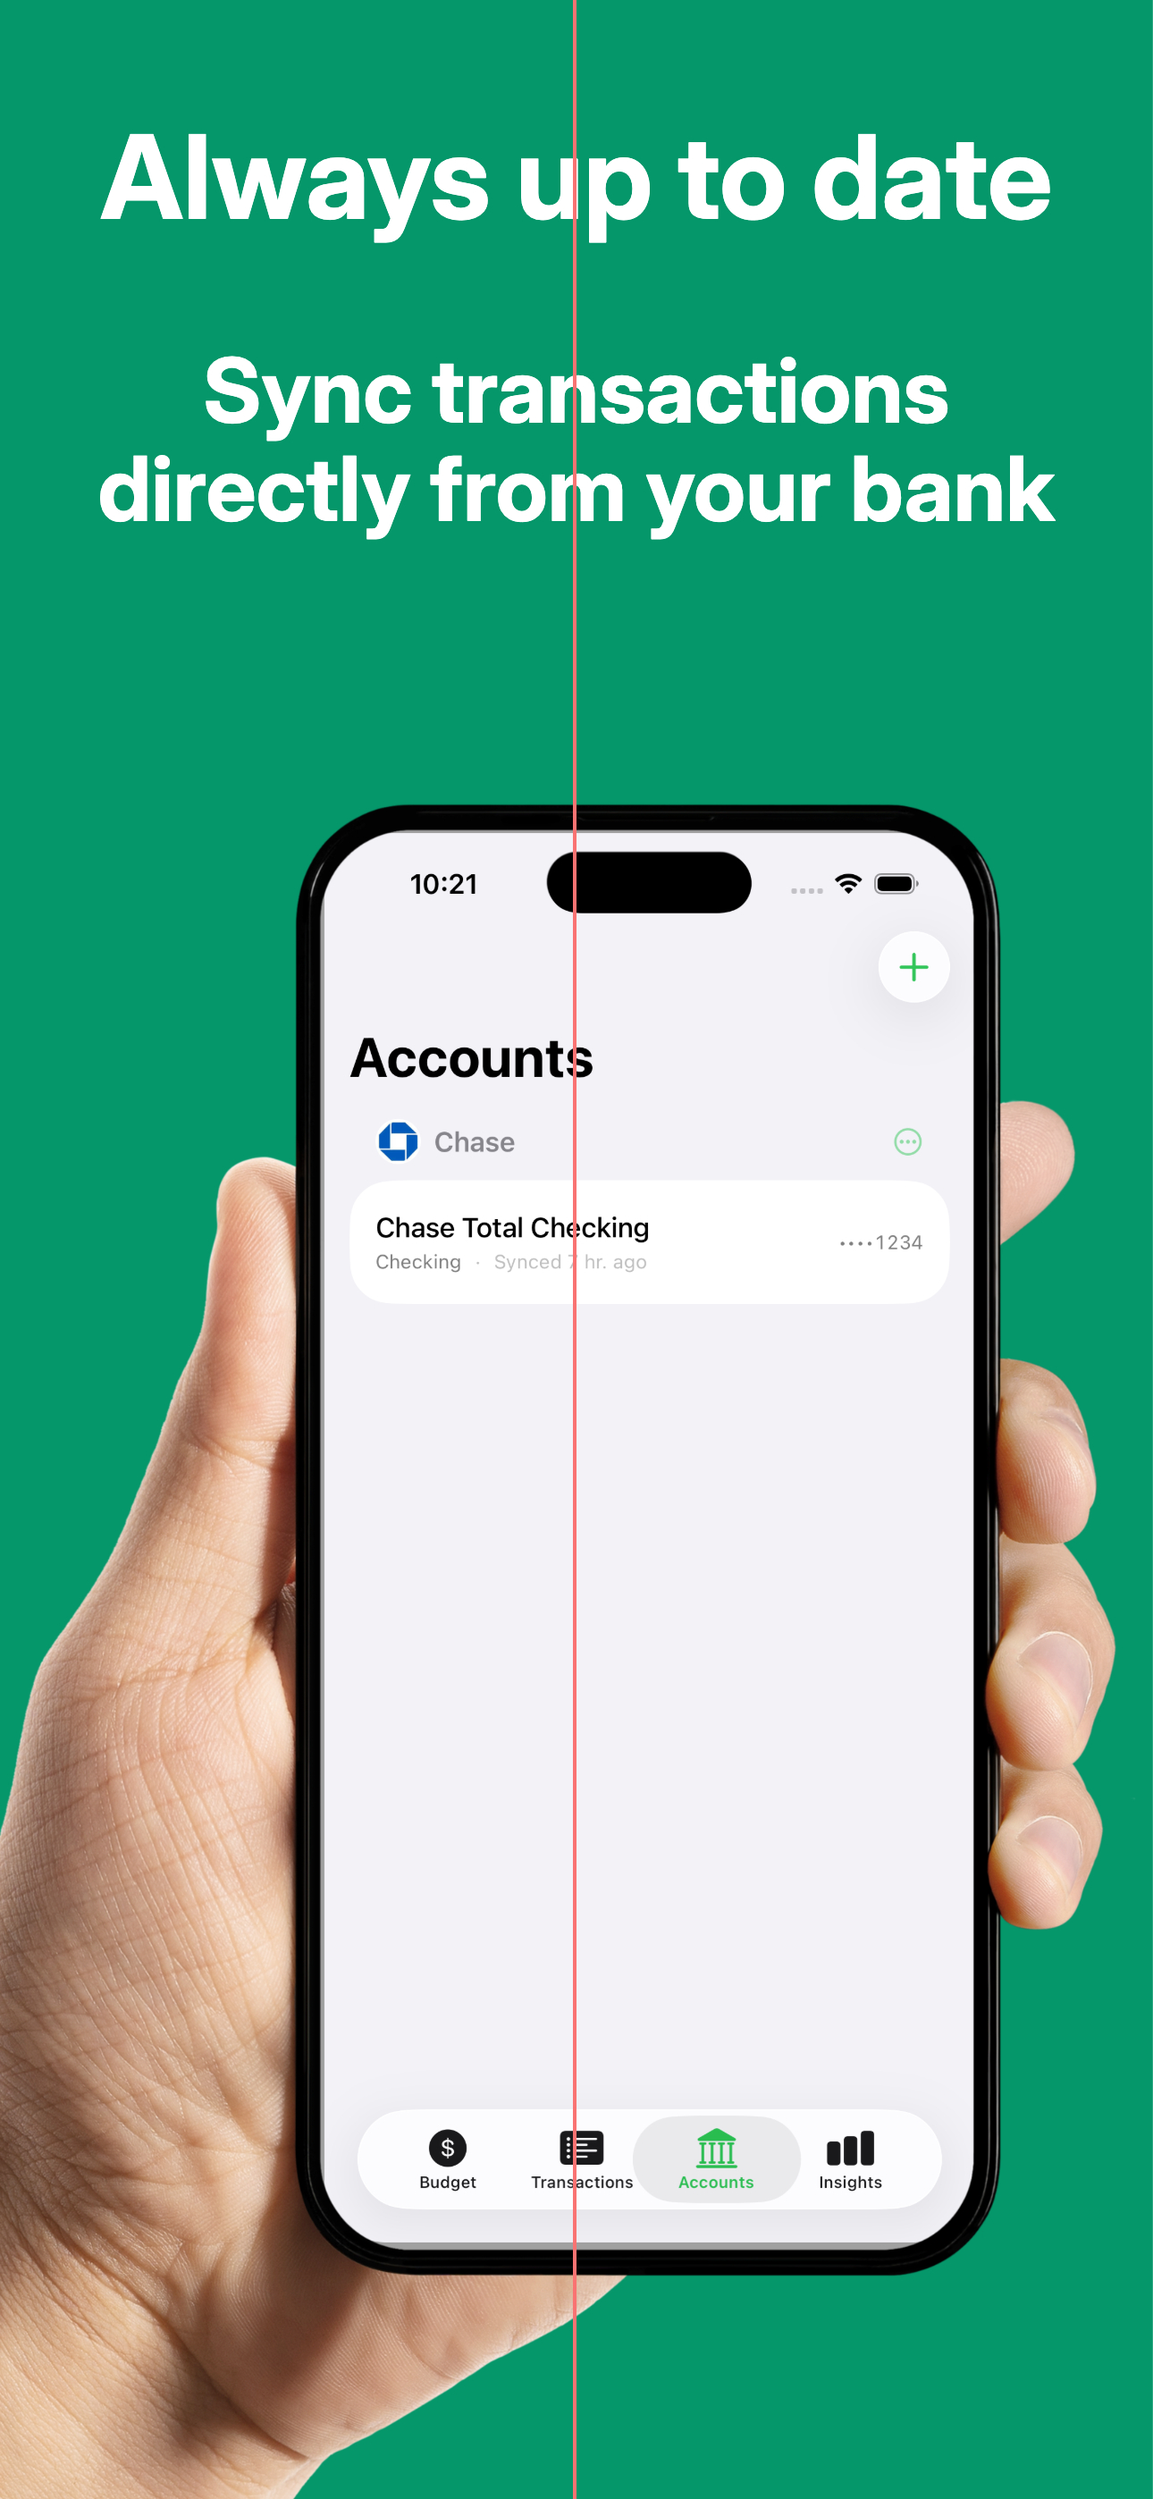
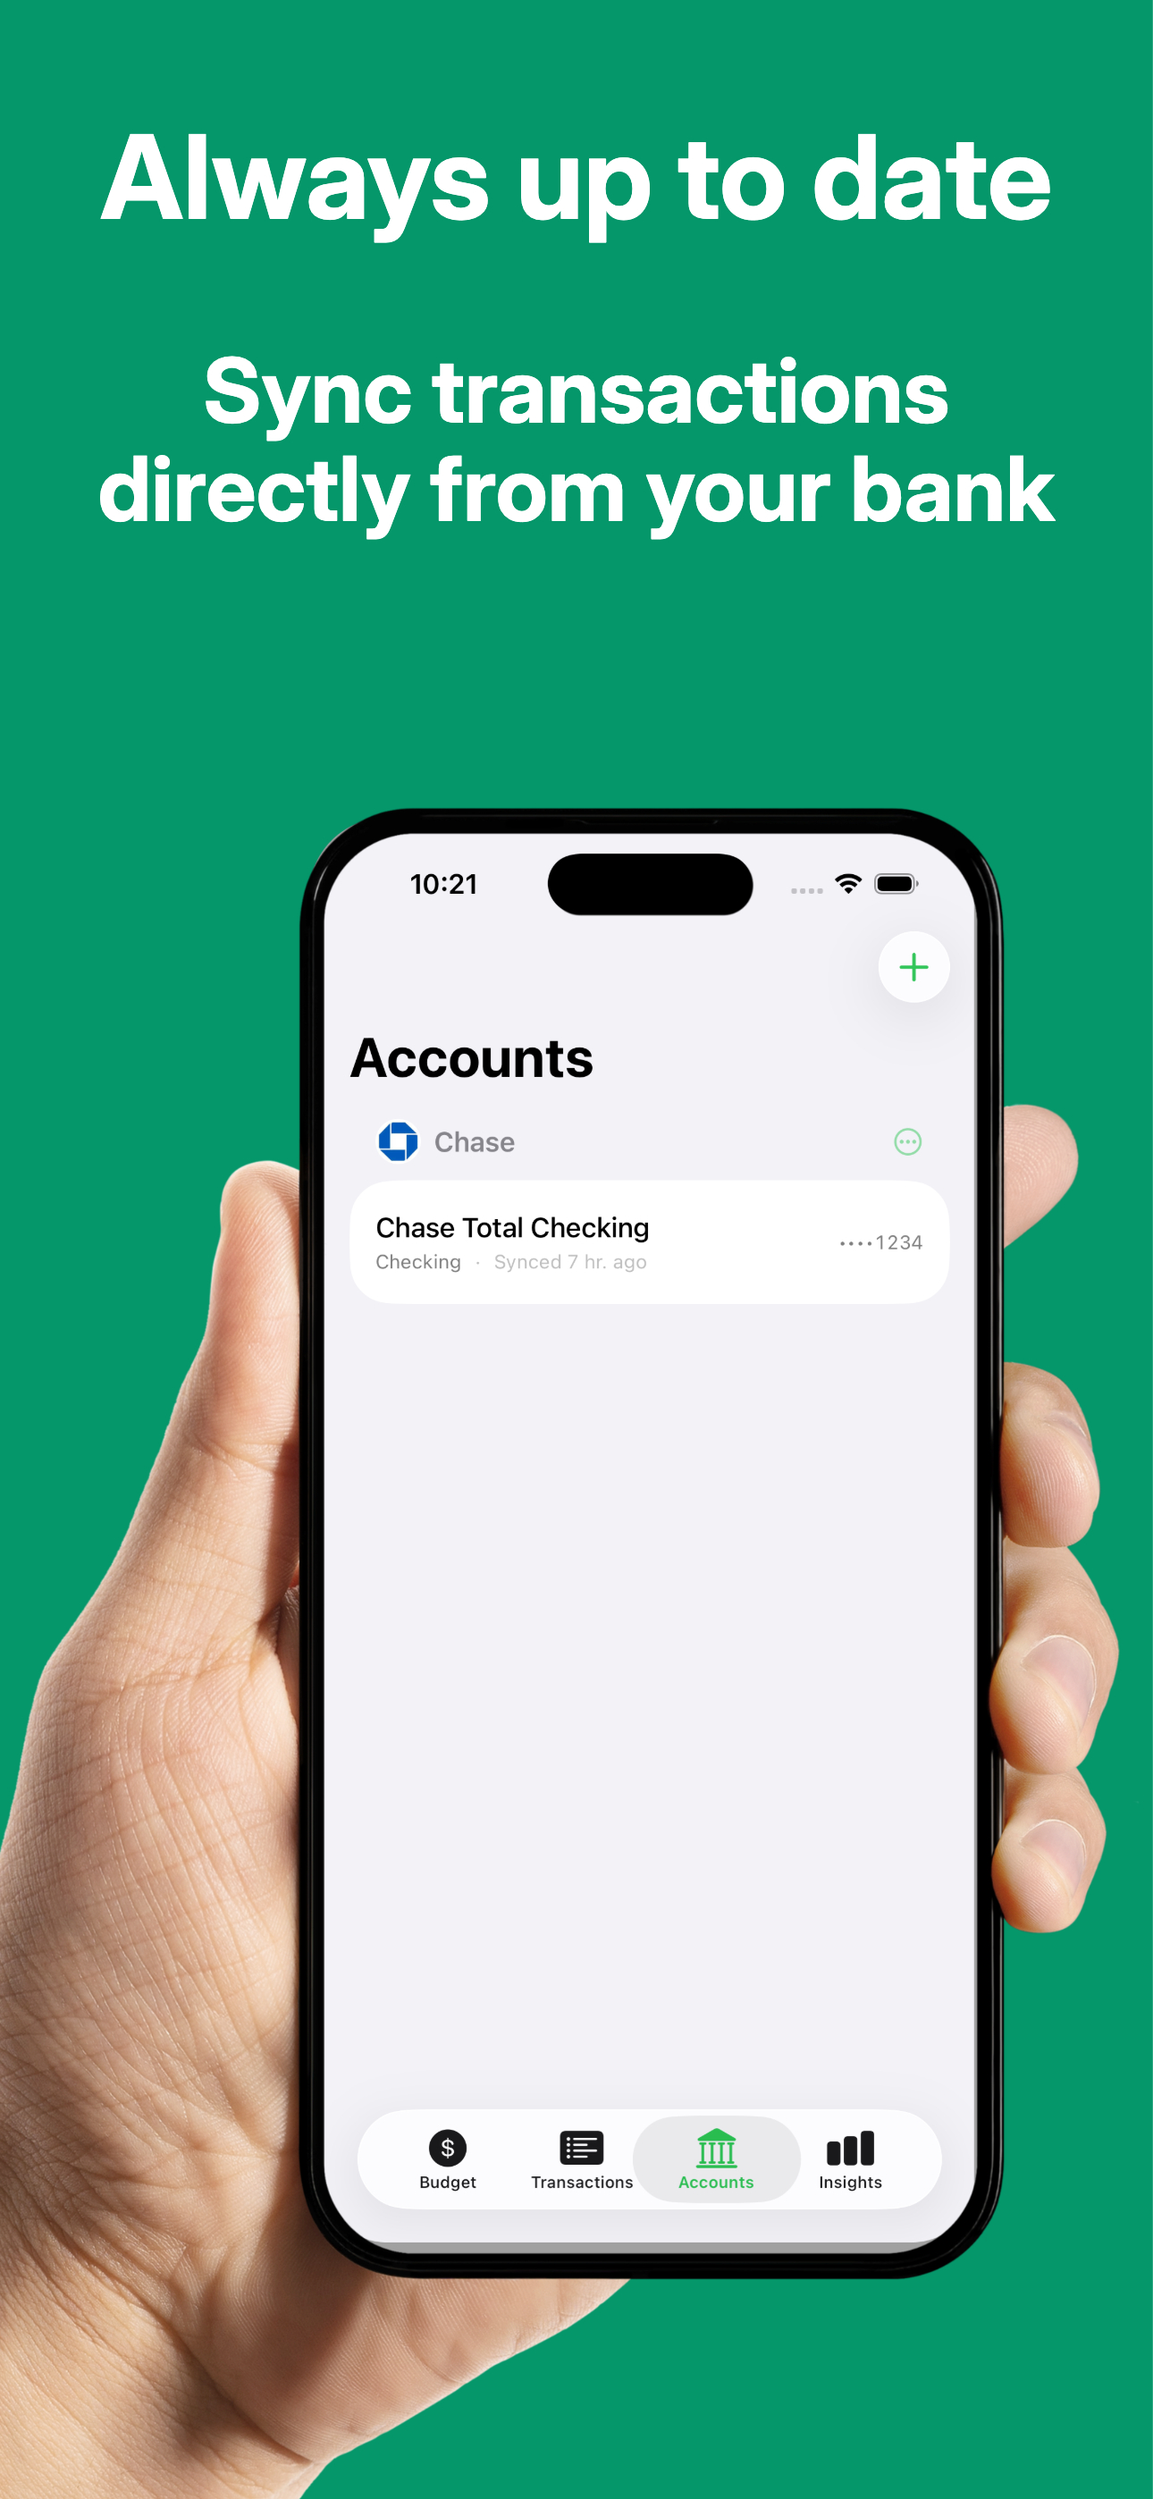
chore(ios): add App Store assets and privacy policy for Happy Tusk
- Add APP_STORE_LISTING.md with full App Store listing copy (name,
  subtitle, description, keywords, URLs)
- Add /privacy page (Next.js) with full privacy policy content
- Add /privacy as a public route in middleware (no auth required)
- Set bundle ID to com.happytusk.app and product name to "Happy Tusk"
  in Xcode project
- Re-export image6.jpg (removes red line artifact)

diff --git a/app/privacy/page.tsx b/app/privacy/page.tsx
@@ -1,0 +1,176 @@
+export const metadata = {
+  title: "Privacy Policy — Happy Tusk",
+  description: "Privacy policy for the Happy Tusk budgeting app.",
+};
+
+export default function PrivacyPage() {
+  const lastUpdated = "February 18, 2026";
+
+  return (
+    <div className="min-h-screen bg-white px-6 py-12 max-w-2xl mx-auto">
+      <h1 className="text-3xl font-bold text-gray-900 mb-2">Privacy Policy</h1>
+      <p className="text-sm text-gray-500 mb-10">Last updated: {lastUpdated}</p>
+
+      <section className="mb-8">
+        <p className="text-gray-700 leading-relaxed">
+          Happy Tusk (&quot;we&quot;, &quot;our&quot;, or &quot;us&quot;) is a
+          zero-based budgeting app. This policy explains what information we
+          collect, how we use it, and your rights regarding your data.
+        </p>
+      </section>
+
+      <Section title="Information We Collect">
+        <p>We collect the following categories of information:</p>
+        <ul className="list-disc pl-5 mt-2 space-y-1">
+          <li>
+            <strong>Account information</strong> — your email address and name,
+            provided when you create an account via Clerk.
+          </li>
+          <li>
+            <strong>Budget data</strong> — budgets, categories, budget items,
+            and planned amounts you create in the app.
+          </li>
+          <li>
+            <strong>Transaction data</strong> — transactions you manually add or
+            import from linked bank accounts.
+          </li>
+          <li>
+            <strong>Recurring payment data</strong> — subscriptions and bills
+            you track in the app.
+          </li>
+          <li>
+            <strong>Bank connection data</strong> — if you link a bank account,
+            we store an access token (provided by Teller) that allows us to
+            retrieve your transaction history. We never store your bank
+            credentials.
+          </li>
+        </ul>
+      </Section>
+
+      <Section title="How We Use Your Information">
+        <ul className="list-disc pl-5 space-y-1">
+          <li>To provide and operate the Happy Tusk app and its features.</li>
+          <li>
+            To sync transactions from your linked bank accounts on your request.
+          </li>
+          <li>
+            To associate your budget data with your account so it persists
+            across devices.
+          </li>
+          <li>We do not sell your personal information to third parties.</li>
+          <li>
+            We do not use your financial data for advertising or marketing
+            purposes.
+          </li>
+        </ul>
+      </Section>
+
+      <Section title="Third-Party Services">
+        <p>Happy Tusk relies on the following third-party services:</p>
+        <ul className="list-disc pl-5 mt-2 space-y-2">
+          <li>
+            <strong>Clerk</strong> (clerk.com) — handles user authentication and
+            account management. Clerk stores your email and name. See{" "}
+            <a
+              href="https://clerk.com/privacy"
+              className="text-green-700 underline"
+              target="_blank"
+              rel="noopener noreferrer"
+            >
+              Clerk&apos;s Privacy Policy
+            </a>
+            .
+          </li>
+          <li>
+            <strong>Teller</strong> (teller.io) — provides secure bank account
+            connectivity. Your bank credentials are entered directly into
+            Teller&apos;s interface and are never shared with us. See{" "}
+            <a
+              href="https://teller.io/privacy"
+              className="text-green-700 underline"
+              target="_blank"
+              rel="noopener noreferrer"
+            >
+              Teller&apos;s Privacy Policy
+            </a>
+            .
+          </li>
+          <li>
+            <strong>Supabase</strong> (supabase.com) — our database provider,
+            used to store your budget and transaction data securely. Data is
+            stored in the United States.
+          </li>
+        </ul>
+      </Section>
+
+      <Section title="Data Retention">
+        <p>
+          Your data is retained for as long as your account is active. You may
+          delete your account at any time by contacting us, which will result in
+          permanent deletion of all associated budget data.
+        </p>
+      </Section>
+
+      <Section title="Data Security">
+        <p>
+          All data is transmitted over HTTPS. We use Clerk&apos;s
+          industry-standard authentication to ensure only you can access your
+          account. Bank credentials are never stored — only a secure access
+          token is retained for transaction syncing.
+        </p>
+      </Section>
+
+      <Section title="Your Rights">
+        <p>You have the right to:</p>
+        <ul className="list-disc pl-5 mt-2 space-y-1">
+          <li>Access the data we hold about you.</li>
+          <li>Request deletion of your account and all associated data.</li>
+          <li>Disconnect your bank accounts at any time within the app.</li>
+        </ul>
+      </Section>
+
+      <Section title="Children's Privacy">
+        <p>
+          Happy Tusk is not directed at children under the age of 13. We do not
+          knowingly collect personal information from children under 13.
+        </p>
+      </Section>
+
+      <Section title="Changes to This Policy">
+        <p>
+          We may update this Privacy Policy from time to time. We will notify
+          users of significant changes by updating the date at the top of this
+          page.
+        </p>
+      </Section>
+
+      <Section title="Contact Us">
+        <p>
+          If you have questions about this Privacy Policy or your data, contact
+          us at:{" "}
+          <a
+            href="mailto:support@happytusk.app"
+            className="text-green-700 underline"
+          >
+            support@happytusk.app
+          </a>
+        </p>
+      </Section>
+    </div>
+  );
+}
+
+function Section({
+  title,
+  children,
+}: {
+  title: string;
+  children: React.ReactNode;
+}) {
+  return (
+    <section className="mb-8">
+      <h2 className="text-lg font-semibold text-gray-900 mb-3">{title}</h2>
+      <div className="text-gray-700 leading-relaxed space-y-2">{children}</div>
+    </section>
+  );
+}

diff --git a/middleware.ts b/middleware.ts
@@ -4,6 +4,7 @@ import { clerkMiddleware, createRouteMatcher } from '@clerk/nextjs/server';
 const isPublicRoute = createRouteMatcher([
   '/sign-in(.*)',
   '/sign-up(.*)',
+  '/privacy',
 ]);
 
 export default clerkMiddleware(async (auth, request) => {

diff --git a/CLAUDE.md b/CLAUDE.md
@@ -4,8 +4,8 @@
 
 Zero-based budget app: Next.js + TypeScript web app with native iOS (SwiftUI) companion. Bank integration via Teller API.
 
-**Web App:** v1.9.0 (stable)  |  **iOS App:** v0.12.0 (pre-release)
-**Last Session:** 2026-02-17
+**Web App:** v1.9.0 (stable)  |  **iOS App:** v0.12.0 (pre-release) — **iOS app name: Happy Tusk**
+**Last Session:** 2026-02-18
 
 ## Instructions for Claude
 
@@ -117,28 +117,15 @@ All `NumberFormatter`/`DateFormatter`/`ISO8601DateFormatter` instances are cache
 
 ## UI Patterns
 
-### Colors (Web)
+**Web colors:** `globals.css` tokens — Income=`text-success`, Expense/Over=`text-danger`, Primary=`bg-primary`
+**Category emojis:** Income💰 Giving🤲 Household🏠 Transportation🚗 Food🍽 Personal👤 Insurance🛡 Saving💵 Custom=📁
+**iOS budget page:** Summary card (Buffer + `MiniProgressRing` for income/expenses). Bottom banner: gray/orange/green/red by allocation state. Progress bars as 2px Capsule dividers. Collapsible category headers.
 
-Semantic CSS tokens in `globals.css` — see `DESIGN_SYSTEM.md`. Income=`text-success`, Expense=`text-danger`, Over budget=`text-danger`, Primary=`bg-primary`.
+## Working Features
 
-### Category Emojis
+**Web (v1.9.0):** Feature-complete. Full budget CRUD, custom categories, transactions (add/edit/split/soft-delete), bank sync (Teller), recurring payments, budget copy/reset, insights (D3 charts + Sankey), monthly report, onboarding, tablet responsive.
 
-Income💰 Giving🤲 Household🏠 Transportation🚗 Food🍽 Personal👤 Insurance🛡 Saving💵 Custom=stored emoji or 📁
-
-### iOS Budget Page
-
-- Summary card shows Buffer (tap-to-edit) + Income/Expenses progress rings (`MiniProgressRing`)
-- Sticky bottom banner: "Start planning" (gray) / "Left to Budget" (orange) / "Every dollar is assigned!" (green) / "Over budgeted" (red)
-- Progress bars as dividers between items (2px, green/red Capsule)
-- Category headers collapsible with chevron
-
-## Working Features (Web)
-
-Auth (Clerk), multi-user, onboarding (6-step), full budget CRUD, custom categories (name+emoji), transactions (add/edit/soft-delete/restore), split transactions (create+edit), bank integration (Teller), recurring payments (auto-reset, auto-create, linking), budget item detail sidebar, monthly report with Buffer Flow + Left to Budget, copy/reset budget, insights charts (D3: bar, line, Sankey), tablet responsive + mobile block, transaction categorization suggestions, month/year URL persistence, previous month transactions
-
-## Working Features (iOS)
-
-Auth (Clerk), budget viewing with categories/items, month navigation, transaction viewing + categorization + editing, transaction creation (from item detail or transactions tab), budget item detail (progress ring, edit name/planned, view/add/edit transactions), bank account linking (Teller Connect via WKWebView), transaction sync from linked accounts, per-account sync toggle (half-sheet with streaming on/off), accounts viewing with institution grouping + unlink + institution icons, pull-to-refresh, sticky "Left to Budget" banner, budget summary progress rings (income/expenses), progress bar dividers, split transactions (create from item detail), recurring payment management (CRUD, contribute, mark as paid/reset, category picker), custom category creation (name+emoji picker, long-press delete), budget copy from previous month, budget reset (zero out / replace with previous month), monthly report sheet (7 sections with trends + non-earned income filter), insights charts (budget vs actual bars, spending pace burn-down with per-category drilldown, daily spending heatmap, spending trends), inline budget item editing (tap name or planned amount), onboarding flow (6-step purely educational — no live data created), comprehensive error handling (toast notifications for all mutations, network error wrapping, server error message parsing), transaction search & filters (text search on merchant/description/amount, type/category/amount range/account filters, filter chips with dismiss), offline support (cache-then-network loading, offline mutation guards, floating offline banner, cache clear on sign-out), non-earned income marking (per-transaction + per-split toggle for income type)
+**iOS (v0.12.0 — Happy Tusk):** Feature-complete. All web features plus: native offline caching, transaction search/filters, per-account sync toggle, non-earned income marking, interactive chart drill-downs, toast error handling. See `ios/BudgetApp/CHANGELOG.md`.
 
 ## Common Issues
 
@@ -177,8 +164,9 @@ See `.env.example`. Key vars: `DATABASE_URL`, `NEXT_PUBLIC_CLERK_PUBLISHABLE_KEY
 **Pending migration:** `isNonEarned` column rename — run SQL migration before `db:push`
 
 **Next iOS work:**
-- App Store Connect setup (bundle ID, app record, listing copy, privacy policy)
+- Renew Apple Developer membership ($99/yr) — required for TestFlight + App Store upload
+- App Store Connect: create app record with bundle ID `com.happytusk.app`
 - TestFlight beta testing
 - Accessibility improvements (VoiceOver, Dynamic Type)
 
-**App Store assets:** Screenshots done — `ios/screenshots/image1-6.jpg` (6 captioned JPGs, 6.7" device)
+**App Store assets:** Done — `ios/APP_STORE_LISTING.md` (listing copy, keywords, URLs). Screenshots: `ios/screenshots/image1-6.jpg`. Privacy policy: `/privacy` (public route, no auth). Icon: `ios/BudgetApp/BudgetApp/Assets.xcassets/AppIcon.appiconset/`

diff --git a/ios/APP_STORE_LISTING.md b/ios/APP_STORE_LISTING.md
@@ -1,0 +1,90 @@
+# Happy Tusk — App Store Listing
+
+## App Name
+
+Happy Tusk
+
+## Subtitle (30 chars max)
+
+Zero-Based Budget Tracker
+
+## Category
+
+Primary: Finance
+Secondary: Productivity
+
+## Age Rating
+
+4+
+
+## Pricing
+
+Free
+
+---
+
+## Description (4000 chars max)
+
+Meet Happy Tusk — the zero-based budgeting app that makes sure every dollar has a job.
+
+Most budgeting apps just track what you've spent. Happy Tusk makes you intentional about where every dollar goes _before_ you spend it. Assign your income across categories, watch your budget balance in real time, and end each month knowing exactly where your money went.
+
+**Zero-Based Budgeting, Simplified**
+Happy Tusk is built on a simple idea: income minus expenses equals zero. Every paycheck gets fully assigned — to bills, groceries, savings, or your buffer — so nothing slips through the cracks. When every dollar has a job, you're in control.
+
+**Plan Your Month**
+Build a budget from scratch or copy last month's with one tap. Organize spending across built-in categories (Income, Giving, Household, Transportation, Food, Personal, Insurance, Saving) or create your own with a custom name and emoji. Set planned amounts for each line item and watch your progress fill in as transactions come through.
+
+**Connect Your Bank**
+Link your bank accounts and sync transactions directly into Happy Tusk. Categorize transactions with a tap, split purchases across multiple budget items, and keep your budget current without manual data entry. Supports checking and credit card accounts.
+
+**See Where Your Money Goes**
+Happy Tusk's Insights tab gives you a full picture of your finances:
+
+- Budget vs. Actual bars for every category
+- Daily spending heatmap — see your heavy spending days at a glance
+- Spending pace burn-down chart
+- Multi-month spending trends by category
+- Detailed monthly report with income, expenses, savings rate, and buffer flow
+
+**Never Lose Track**
+The "Left to Budget" banner always shows you how much income is still unassigned. Green means every dollar is placed. Orange means you have money left to plan. Red means you've over-allocated — time to adjust.
+
+**Recurring Payments Built In**
+Track subscriptions and recurring bills separately. Happy Tusk auto-advances due dates, tracks how much you've funded toward each payment, and can automatically add them to your budget when copying a previous month.
+
+**Works Offline**
+Happy Tusk caches your budget data locally so you can always view your budget, even without a connection. Mutations are blocked when offline with a clear indicator — no silent failures.
+
+**Your Data, Secure**
+Happy Tusk uses Clerk for secure authentication and never stores your bank credentials — bank connections are handled by Teller, a trusted financial data provider.
+
+---
+
+## Keywords (100 chars max)
+
+budget,zero-based,budgeting,money,finance,spending,tracker,savings,bank sync,personal finance
+
+## Support URL
+
+https://happytusk.app/support
+
+## Privacy Policy URL
+
+https://happytusk.app/privacy
+
+---
+
+## What's New (first version)
+
+Initial release of Happy Tusk — zero-based budgeting for iOS.
+
+---
+
+## Notes for App Store Connect Setup
+
+- Bundle ID: `com.happytusk.app` (already set in Xcode)
+- SKU: happytusk-ios-1
+- Screenshots: 6 × 6.7" device (image1–6.jpg in ios/screenshots/)
+  ⚠ image6.jpg has a red vertical line artifact — re-export before uploading
+- App icon: ios/BudgetApp/BudgetApp/Assets.xcassets/AppIcon.appiconset/AppIcon~ios-marketing.png (1024×1024)

diff --git a/ios/BudgetApp/CHANGELOG.md b/ios/BudgetApp/CHANGELOG.md
@@ -376,8 +376,8 @@ All notable changes to the Budget App iOS application.
 - [x] Comprehensive error handling and user feedback
 - [x] Transaction search & filters
 - [x] Offline support with local caching
-- [ ] App Store assets (screenshots, description, keywords)
-- [ ] TestFlight beta testing
+- [x] App Store assets (screenshots, description, keywords, privacy policy)
+- [ ] TestFlight beta testing (requires Apple Developer membership renewal)
 - [ ] Performance optimization
 - [ ] Accessibility improvements (VoiceOver, Dynamic Type)
 
